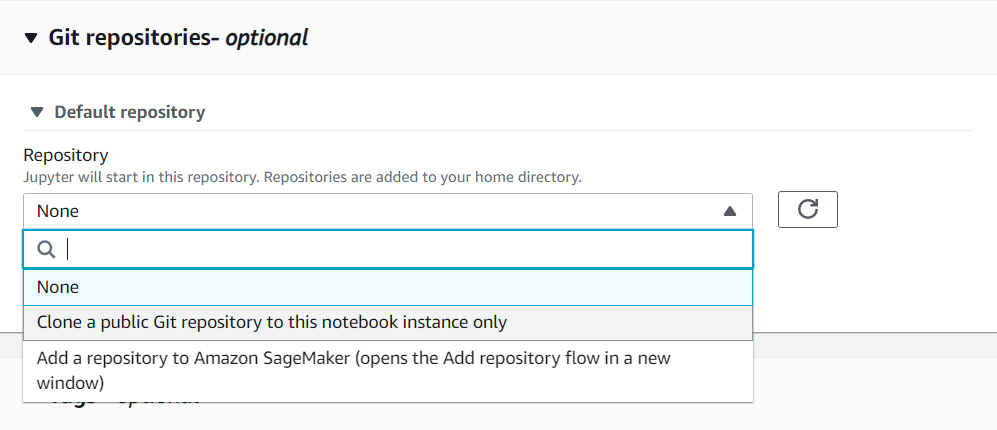
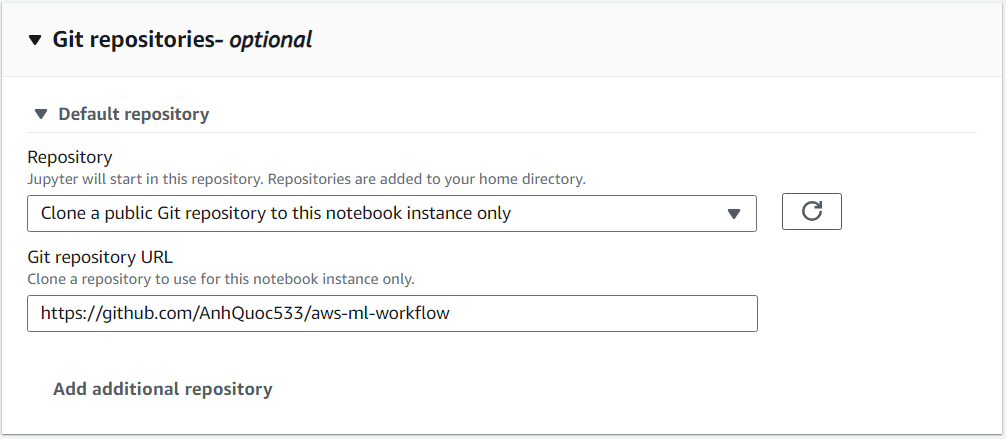
update readme

diff --git a/README.md b/README.md
@@ -4,6 +4,7 @@
   <summary>Table of Contents</summary>
   <ol>
     <li><a href="#overview">Overview</a></li>
+    <li><a href="#aws-introduction">AWS Introduction</a></li>
     <li><a href="#prerequisites">Prerequisites</a></li>
     <li><a href="#getting-started">Getting Started</a></li>
     <li><a href="#attention">Attention</a></li>
@@ -16,11 +17,22 @@ This repository is a guidebook to developing simple machine learning workflows w
 Throughout the tutorial, you will play the role of a machine learning engineer. You will take the work products from other data professionals, such as data scientists and data engineers, and make them production-ready. Therefore, your job will involve developing ML models, deploying them as APIs, automating ML workflows, and monitoring ML systems in real-time. 
 
 Overall, this repository covers the following topics:
-* Introduction to AWS SageMaker.
+* Introduction to Amazon SageMaker.
 * Machine learning workflows automation.
 * Workflow monitoring.
   
 ![img](img/preview.png)
+
+## AWS Introduction
+AWS (Amazon Web Services) is an on-demand cloud computing platform that offers a broad set of products and services, which also include machine learning, to help organizations move faster, lower costs, and scale. With the machine learning services in AWS, you can accelerate the ML development process and improve the reliability and security of your ML workflows.\
+AWS is a pay-as-you-go service, which means that you only pay for the services that you use.
+
+There are three main ways to interact with services in AWS:
+* **AWS Management Console**: a web-based user interface that provides easy access to all of services. It is the best way to get started with AWS services and a good option for users of all skill levels. It is generally used for debugging and initial setup.
+* **AWS Software Development Kits (SDKs)**: libraries that allow you to *programmatically* interact with AWS services from your own applications. They are available for a variety of programming languages and are a good option for developers who want to build applications that use AWS.
+* **AWS Command Line Interface (CLI)**: a tool that allows you to interact with AWS services using a command-line interface. It is more powerful than the console, but it also requires more technical knowledge to use and is hard to handle. It is generally used for one-off jobs.
+
+This tutorial covers only two of the mentioned approaches (AWS Console and AWS SDKs) in each topic.
 
 ## Prerequisites
 To practice with this repository, you need:
@@ -35,7 +47,7 @@ In order to start practicing, you need to clone this repository to your Amazon S
 1. Log into your AWS Console.
 2. Navigate to Amazon SageMaker through the search bar, or click [here](https://console.aws.amazon.com/sagemaker/home#/notebook-instances) and skip to step 4. Bookmarking this service is recommended.
    ![img](img/search_sagemaker.png)
-3. In the left sidebar, go to Notebook → Notebook intances.
+3. In the left sidebar, go to Notebook → Notebook instances.
    ![im](img/notebook.png)
 4. Click _Create notebook instance_.
    ![img](img/create_notebook.png)
@@ -43,12 +55,12 @@ In order to start practicing, you need to clone this repository to your Amazon S
 6. In the _Permissions and encryption_ option, click on the dropdown and choose _Create a new role_ for operating SageMaker and S3 if you don't have one or this is your new experience.
    ![im](img/new_role.png)
 7. Leave the setting as is and click _Create role_.
-8. In the _Git repositories_ option, choose _Clone a public Git repository to this notebook instance only_ and paste the URL of this Git repository in the box: https://github.com/AnhQuoc533/aws-ml-workflow
+8. In the _Git repositories_ option, choose _Clone a public Git repository to this notebook instance only_ and paste the URL of this Git repository in the second Amazonbox.
    ![im](img/git.png)
 9. That's it. Let's finalize the process.
 
 When the notebook status shows _InService_, click _Open Jupyer_ and begin your learning. \
-<u>**Please note**</u>, to completely shut down your notebook in Amazon SageMaker, navigate to the _Notebook instances_ page, select the running notebook, and stop it through _Action_ dropdown button. This is extremely important to avoid **unwanted charges**.
+<u>**Please note**</u>, to completely shut down your notebook in Amazon SageMaker, navigate to the _Notebook instances_ page, select the running notebook, and stop it through the _Actions_ dropdown button. This is extremely important to avoid **unwanted charges**.
 ![stop](img/stop_notebook.png)
 
 ## Attention
